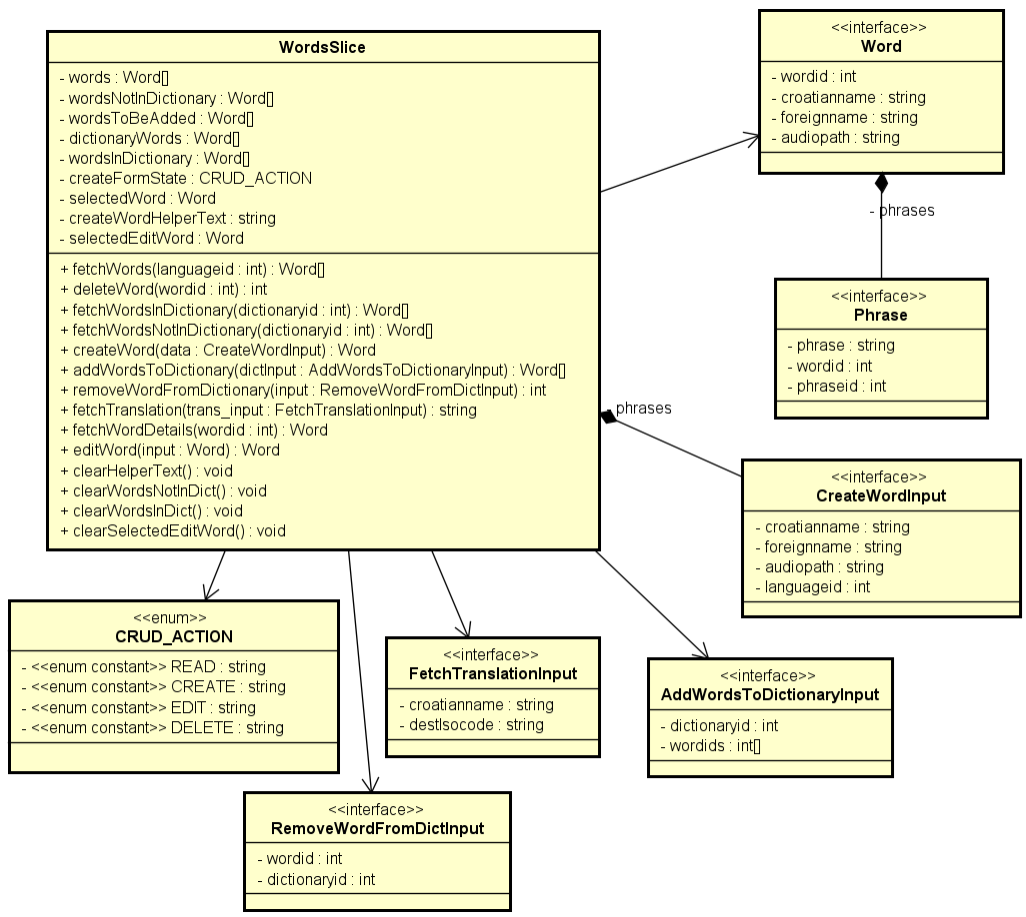
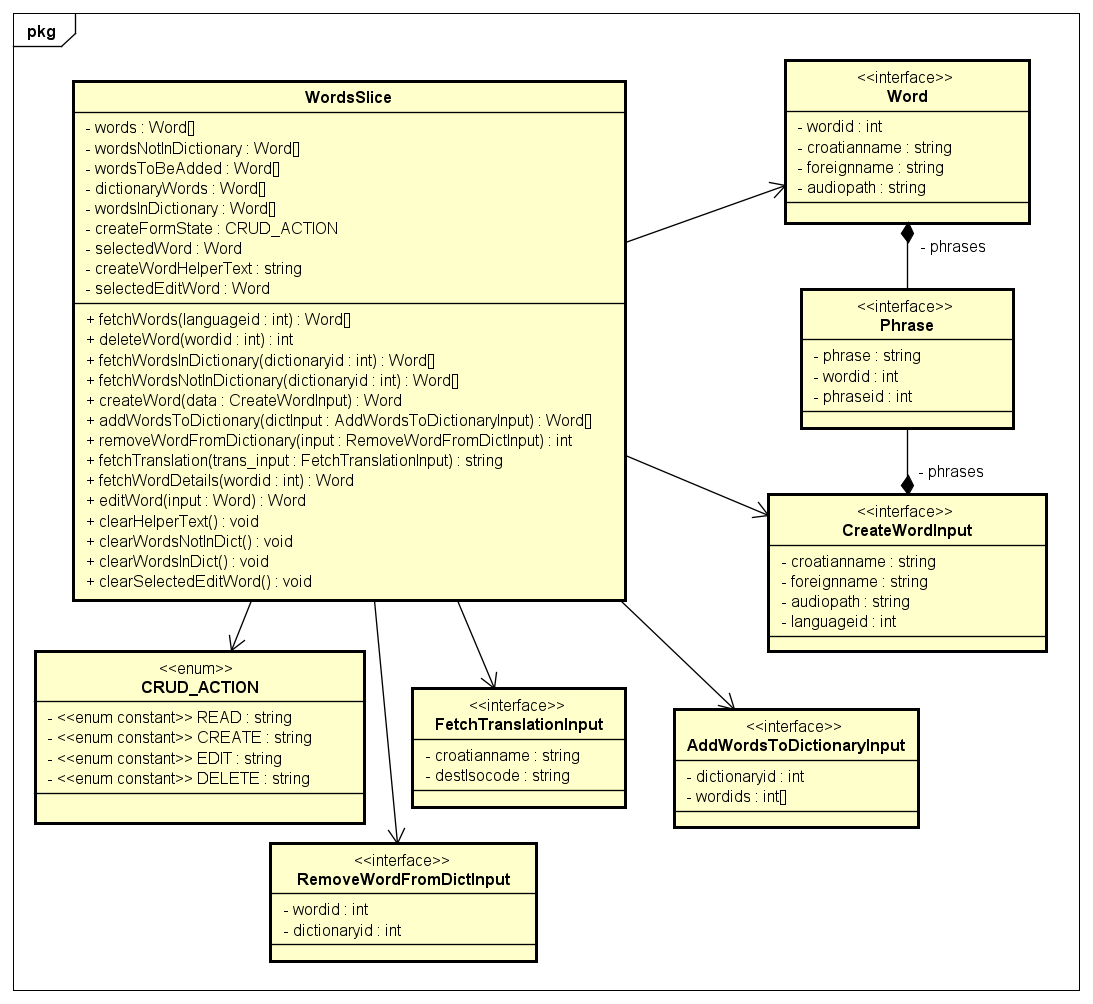
Popravio WordsSlice dijagram

diff --git a/dokumentacija/Arhitektura.tex b/dokumentacija/Arhitektura.tex
@@ -344,58 +344,57 @@ Razredi na frontend dijelu aplikacije podijeljeni su u tri skupine. Isječke (sl
 	\label{fig:cls-student-dict}
 \end{figure}
 
-\begin{figure}[htp]
+\begin{figure}[p!]
 	\includegraphics[scale=0.5]{dijagrami/StudySessionSlice.png}
 	\centering
 	\caption{Dijagram razreda za slice Study Session}
 	\label{fig:cls-study-sesion}
 \end{figure}
 
-\begin{figure}[htp]
+\begin{figure}[p!]
 	\includegraphics[scale=0.5]{dijagrami/WordsSlice.png}
 	\centering
 	\caption{Dijagram razreda za slice Words}
 	\label{fig:cls-words}
 \end{figure}
 
-\eject
+\clearpage
 
-
-		\section{Dijagram stanja}
-			
-			
+\section{Dijagram stanja}
+	
+	
 \begin{figure}[htp]
-	\includegraphics[scale=0.5]{dijagrami/state_ucenici.png}
-	\centering
-	\caption{Dijagram stanja - sučelje za učenike}
-	\label{fig:state-ucenici}
+\includegraphics[scale=0.5]{dijagrami/state_ucenici.png}
+\centering
+\caption{Dijagram stanja - sučelje za učenike}
+\label{fig:state-ucenici}
 \end{figure}
 
 \begin{figure}[htp]
-	\includegraphics[scale=0.4]{dijagrami/state_administratori.png}
-	\centering
-	\caption{Dijagram stanja - sučelje za administratore}
-	\label{fig:state-admin}
+\includegraphics[scale=0.4]{dijagrami/state_administratori.png}
+\centering
+\caption{Dijagram stanja - sučelje za administratore}
+\label{fig:state-admin}
 \end{figure}
-			
-			
-			\eject 
-		
-		\section{Dijagram aktivnosti}
-			
+	
+	
+
+
+\section{Dijagram aktivnosti}
+	
 \begin{figure}[htp]
-	\includegraphics[scale=0.4]{dijagrami/aktivnosti.png}
-	\centering
-	\caption{Dijagram aktivnosti za učenje sa snimanjem izgovora}
-	\label{fig:aktivnosti-izgovor}
+\includegraphics[scale=0.4]{dijagrami/aktivnosti.png}
+\centering
+\caption{Dijagram aktivnosti za učenje sa snimanjem izgovora}
+\label{fig:aktivnosti-izgovor}
 \end{figure}
 
 
-			\eject
-		\section{Dijagram komponenti}
+	\eject
+\section{Dijagram komponenti}
 
 \begin{figure}[htp]
-	\includegraphics[scale=0.4]{dijagrami/ComponentDiagram0.png}
-	\centering
-	\caption{Dijagram komponenti}
+\includegraphics[scale=0.4]{dijagrami/ComponentDiagram0.png}
+\centering
+\caption{Dijagram komponenti}
 \end{figure}
